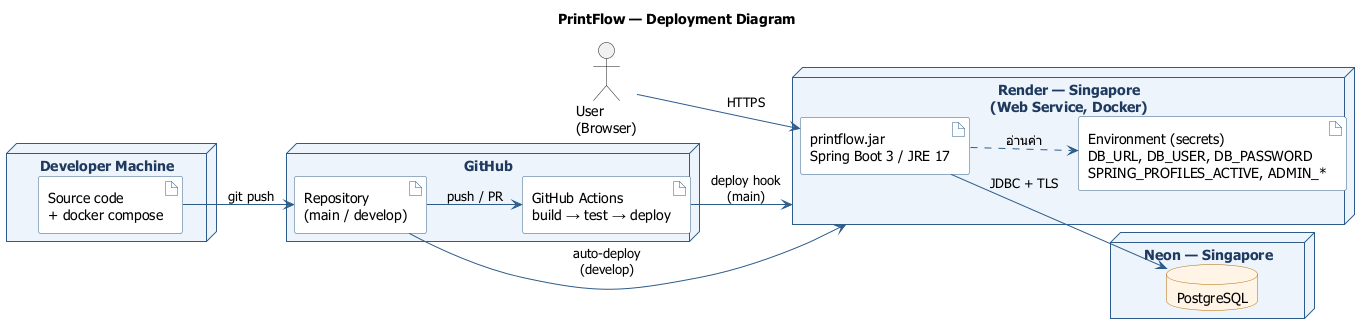
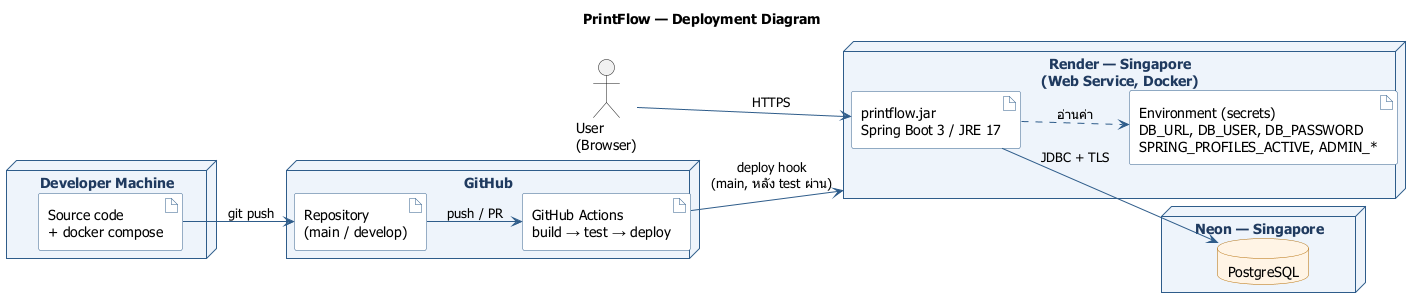
chore: deploy production from main via CI deploy hook

diff --git a/README.md b/README.md
@@ -213,7 +213,7 @@ mvn surefire-report:report-only        # สร้างรายงาน HTML 
 - **Swagger UI:** https://printflow-ogm4.onrender.com/swagger-ui.html
 - **Hosting:** Render (Docker, Singapore) + Neon PostgreSQL (Singapore)
 - **CI/CD:** GitHub Actions — `mvn clean verify` ทุก push/PR · merge เข้า `main` (release) จะสั่ง deploy ผ่าน Render Deploy Hook
-- Branch ที่ deploy กำหนดใน `render.yaml` (ระหว่างพัฒนาใช้ `develop`, หลัง release v1.0 ใช้ `main`)
+- Production deploy จาก branch `main` (กำหนดใน `render.yaml`, ปิด auto-deploy) — Render deploy เฉพาะเมื่อ GitHub Actions รัน test บน `main` ผ่านแล้วเรียก Deploy Hook
 - หมายเหตุ: Render free plan จะหลับเมื่อไม่มีการใช้งาน ~15 นาที การเปิดครั้งแรกอาจใช้เวลา 30–60 วินาที
 
 ![Deployment Diagram](doc/diagrams/deployment.png)
